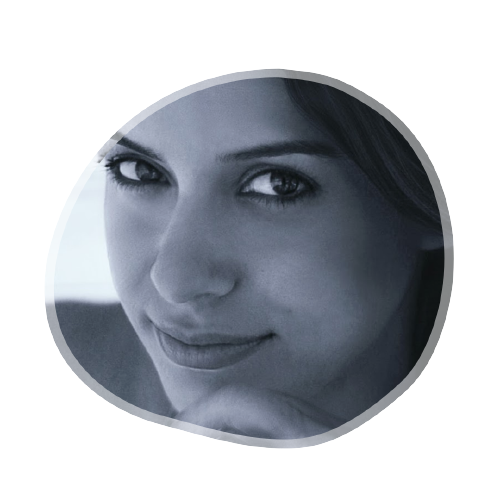
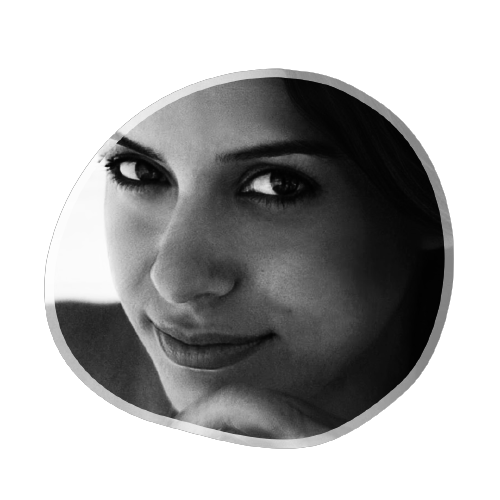
Estilização da home

diff --git a/index.html b/index.html
@@ -6,40 +6,39 @@
     <meta name="viewport" content="width=, initial-scale=1.0">
     <link rel="stylesheet" href="assets/css/reset.css">
     <link rel="stylesheet" href="assets/css/style.css">
+    <link rel="shortcut icon" href="assets/fonts/favicon.ico" type="image/x-icon">
     <link rel="preconnect" href="https://fonts.googleapis.com">
     <link rel="preconnect" href="https://fonts.gstatic.com" crossorigin>
     <link href="https://fonts.googleapis.com/css2?family=Montserrat:ital,wght@0,100;0,200;0,300;0,400;0,500;0,600;0,700;0,800;0,900;1,100;1,200;1,300;1,400;1,500;1,600;1,700;1,800;1,900&family=Mulish:ital,wght@0,200;0,300;0,400;0,500;0,600;0,700;0,800;0,900;1,200;1,300;1,400;1,500;1,600;1,700;1,800;1,900&display=swap" rel="stylesheet">
-    <script src="https://kit.fontawesome.com/abdbbdd39d.js" crossorigin="anonymous"></script>
+    <script src="https://kit.fontawesome.com/2756983640.js" crossorigin="anonymous"></script>
     <title>Mel Carvalho</title>
 </head>
 <body>
-    <header>
+    <header class="menu">
         <nav>
             <ul>
-                <li>Home</li>
-                <li>Sobre</li>
-                <li>Portfólio</li>
-                <li>Contato</li>
+                <li><i class="fa-solid fa-house"></i>Home</li>
+                <li><i class="fa-solid fa-address-card"></i>Sobre</li>
+                <li><i class="fa-solid fa-briefcase"></i>Portfólio</li>
+                <li><i class="fa-solid fa-envelope"></i>Contato</li>
             </ul>
         </nav>
     </header>
-    <main>
-        <section>
-            <div>
-                <img src="assets/img/Avatar.png" alt="Foto de acervo pessoal">
+    <main class="content">
+        <section class="content__home">
+            <div class="content__img">
             </div>
-            <div>
-                <h1>Mel Carvalho</h1>
-                <p>Olá, me chamo Mel! Sou estudante de TI e esse é o meu portfólio.</p>
-                <ul>
-                    <li></li>
-                    <li></li>
-                    <li></li>
+            <div class="content__presentation">
+                <h1 class="content__name">Mel Carvalho</h1>
+                <p class="content__text">Olá! Me chamo Mel, sou estudante de TI e esse é o meu portfólio.</p>
+                <ul class="content__list">
+                    <li class="content__item"><a href=""><i class="fa-brands fa-linkedin"></i></a></li>
+                    <li class="content__item"><a href=""><i class="fa-brands fa-github"></i></a></li>
                 </ul>
             </div>
         </section>
-        <section>
-            <h2>Sobre</h2>
+        <section class="content__about">
+            <h2 class="content__title">Sobre</h2>
             <p>Me chamo Mel, sou estudante de Tecnologia da Informação, mais especificamente Sistemas para Internet e tenho interesse em me especializar na área de Desenvolvimento Web. Alguns dos pequenos projetos onde coloco em prática meus estudos podem ser conferidos no meu repositório do github.</p>
             <div>
                 <div>
@@ -101,7 +100,7 @@
             </figure>
         </section>
     </main>
-    <footer>
+    <footer class="contato">
         <h2>Contato</h2>
         <input type="text" placeholder="Nome completo">
         <input type="email" placeholder="Insira seu email">

diff --git a/assets/css/style.css b/assets/css/style.css
@@ -1,9 +1,81 @@
 :root {
-    
+    --cinza-claro: #f8f8f8;
+    --branco: #fff;
+    --titulo: #000;
+    --fonte: #767676;
+    --montserrat: 'Montserrat', sans-serif;
+    --mulish: 'Mulish', sans-serif;
 }
 
 body {
-    font-family: 'Montserrat', sans-serif;
+    font-family: var(--mulish);
+    font-size: 15px;
+    line-height: 30px;
+    letter-spacing: .5px;
+    word-wrap: break-word;
+    font-weight: 400;
+    color: var(--fonte);
 }
 
+.menu {
+    position: fixed;
+    height: 100vh;
+    width: 400px;
+    margin: 0;
+    overflow: hidden;
+    background-color: var(--branco);
+}
 
+.content {
+    background-color: var(--cinza-claro);
+    max-width: 887px;
+    width: 100%;
+    margin-left: auto;
+    height: auto;
+    position: relative;
+    padding: 0 40px;
+}
+
+.content__home {
+    display: flex;
+    align-items: center;
+    height: 600px;
+}
+
+.content__img {
+    background-image: url(/assets/img/Avatar.png);
+    min-width: 400px;
+    min-height: 400px;
+    position: relative;
+    background-repeat: no-repeat;
+    background-position: 50%;
+    background-size: cover;
+}
+
+.content__name {
+    font-size: 55px;
+    font-weight: 800;
+    text-transform: uppercase;
+    margin-bottom: 30px;
+    color: var(--titulo);
+    font-family: var(--montserrat);
+}
+
+.content__text {
+    font-family: var(--montserrat);
+    font-style: italic;
+    font-weight: 500;
+    max-width: 450px;
+    margin-bottom: 30px;
+
+}
+
+.content__list {
+    display: flex;
+  }
+
+.fa-brands {
+    font-size: 22px;
+    color: var(--titulo);
+    margin-right: 15px;
+  }
